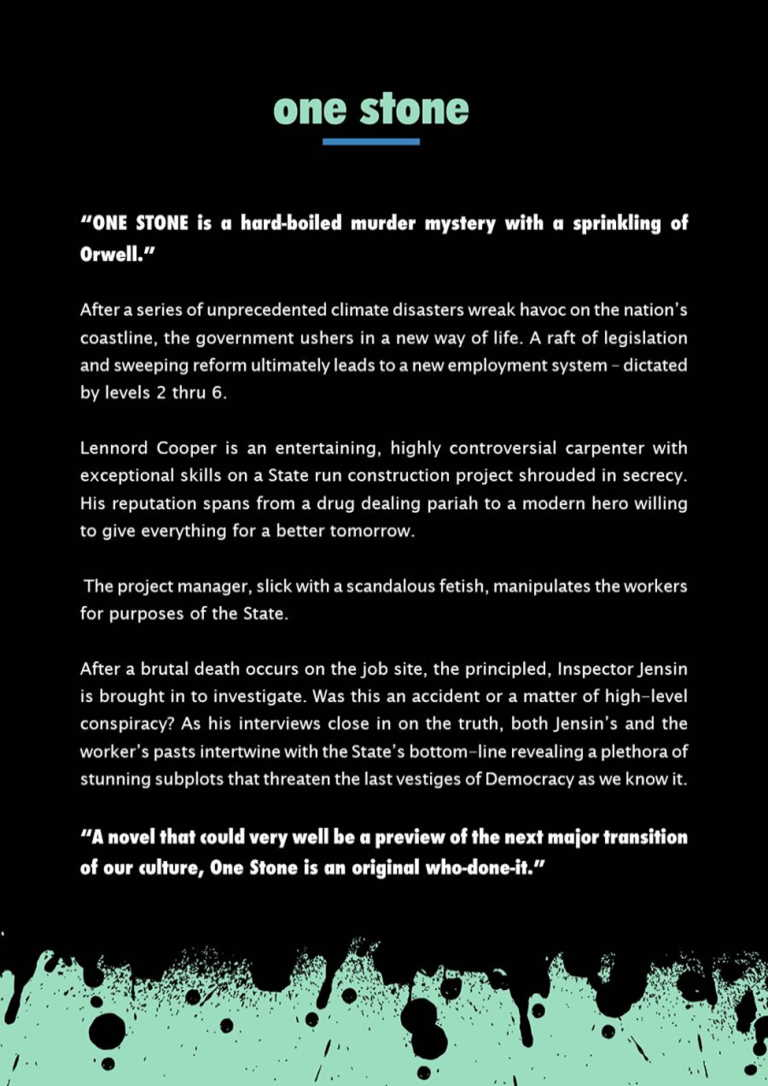
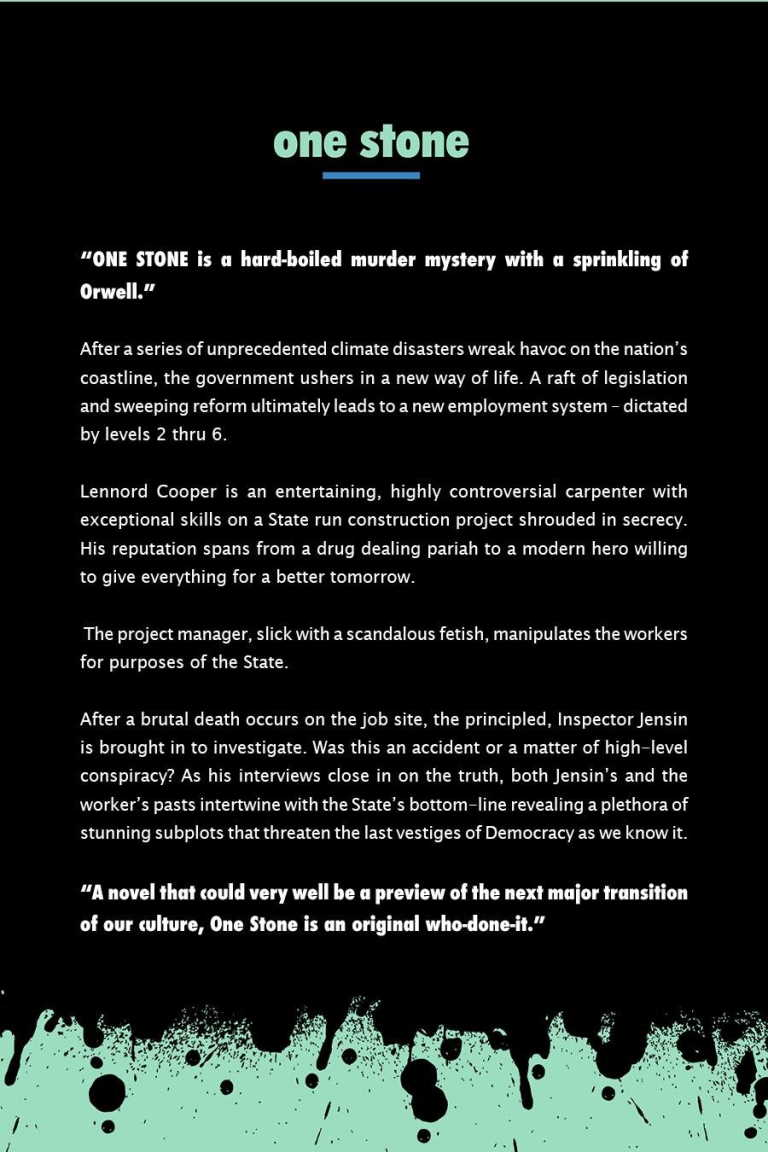
1030

diff --git a/index.html b/index.html
@@ -386,6 +386,7 @@ font-size: 27px;
 .columnbookcovers {
   float: left;
   width: 33.33%;
+ 
   padding: 10px;
   }
   
@@ -396,6 +397,7 @@ font-size: 27px;
   margin-left: auto;
   margin-right: auto;
   width: 50%;
+   height: 800px;
 }
 
 /* Clear floats after the columns */
@@ -644,13 +646,26 @@ Mark W. Aycox
 
 <div class="rowbookcovers">
   <div class="columnbookcovers" style="background-color:#ffffff;">
-    <img src="images/onemorerep.jpg" alt="onemorerep.jpg" class="imgintro">
+    <img src="images/onemorerepfront.jpg" alt="onemorerepfront.jpg" class="imgintro">
   </div>
   <div class="columnbookcovers" style="background-color:#ffffff;">
-   <img src="images/onestone.jpg" alt="onestone.jpg" class="imgintro">
+   <img src="images/onestonefront.jpg" alt="onestonefront.jpg" class="imgintro">
   </div>
   <div class="columnbookcovers" style="background-color:#ffffff;">
-   <img src="images/scentofsevenletters.jpg" alt="scentofsevenletters.jpg" class="imgintro">
+   <img src="images/scentofsevenlettersfront.jpg" alt="scentofsevenlettersfront.jpg" class="imgintro">
+  </div>
+</div>
+
+
+<div class="rowbookcovers">
+  <div class="columnbookcovers" style="background-color:#ffffff;">
+    <img src="images/onemorerepback.jpg" alt="onemorerepback.jpg" class="imgintro">
+  </div>
+  <div class="columnbookcovers" style="background-color:#ffffff;">
+   <img src="images/onestoneback.jpg" alt="onestoneback.jpg" class="imgintro">
+  </div>
+  <div class="columnbookcovers" style="background-color:#ffffff;">
+   <img src="images/scentofsevenlettersback.jpg" alt="scentofsevenlettersback.jpg" class="imgintro">
   </div>
 </div>
 
